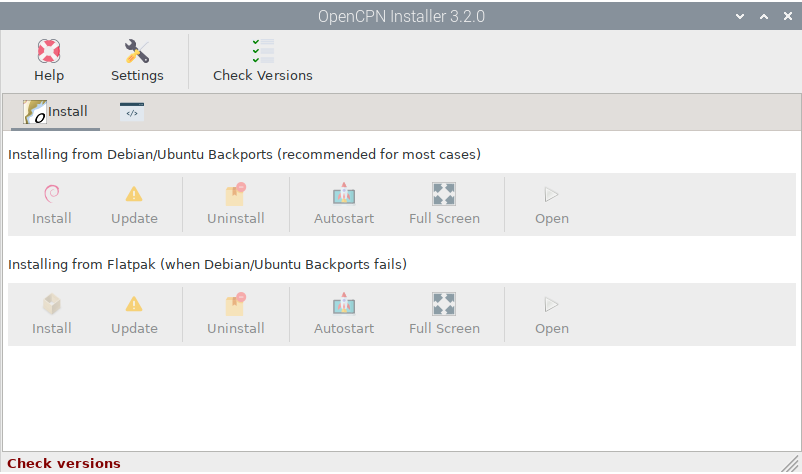
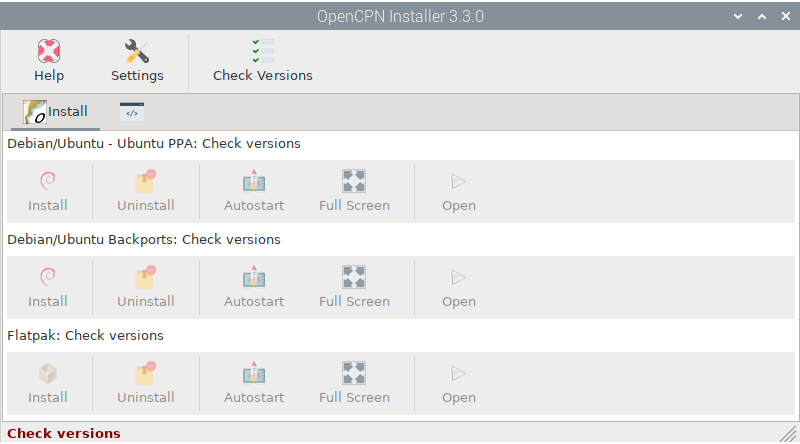
Update OpenCPN chapter to add PPA sources

diff --git a/opencpn/opencpn_app.rst b/opencpn/opencpn_app.rst
@@ -35,34 +35,49 @@ When you open the app, all buttons are disabled. You have to check the current v
 
 .. image:: img/opencpn1.png
 
-A list with the different versions from all the sources will be displayed so that you can choose the right one. The buttons on the |OPopencpnPlugins| ``Install`` tab will now be enabled.
+A list will be displayed with the different versions of all the available sources and some recommendations:
+
+.. image:: img/opencpn1b.png
+
+You can install OpenCPN in two different ways, from the **Debian/Ubuntu** repositories or from **Flatpak**. You can use both ways and install two instances of OpenCPN that can be used simultaneously on the same machine without problems. 
+
+In Flatpak there is only one source and therefore only one version but in Debian/Ubuntu there are several sources and several versions available:
+
+- **Debian/Ubuntu**: This is the official Debian/Ubuntu repository. There is an OpenCPN package, but it will probably always be old.
+
+- **Ubuntu PPA**: This is an special repository to be added in Ubuntu but it will also work in Debian and Raspberry OS. Packages in this repository are always up to date and are fully compatible with packages in the official Debian/Ubuntu repositories above.
+
+- **Debian/Ubuntu Backports**: The official backports repositories are used to install packages that exist in higher versions of the system that have not yet been updated in the current system version.
 
 Which source to choose?
 ***********************
 
-As a general rule, you should choose *Debian/Ubuntu Backports*, but if the plugin you need is not available for your system or if you are running a non-LTS system, choose the Flatpak installation. Both *Debian/Ubuntu Backports* and *Flatpak* installations can coexists without problem.
-
-.. important::
-	At the time of writing this manual, OpenCPN Flatpak is the best option for touchscreens. 
+After checking versions the buttons on the |OPopencpnPlugins| ``Install`` tab will now be enabled:
 
 .. image:: img/opencpn4.png
 
-.. image:: img/opencpn2.png
+- |OPopencpnBack| **Debian/Ubuntu - Ubuntu PPA**: This option will install the highest version found in the official *Debian/Ubuntu* repository and the *Ubuntu PPA* repository.
 
-.. image:: img/opencpn5.png
+- |OPopencpnBack| **Debian/Ubuntu Backports**: This option will install the latest version in the official *Debian/Ubuntu Backports* repository.
 
-|OPopencpnBack| Debian/Ubuntu Backports
-=======================================
-
-This option contains two sources that are compatible with each other, the official Debian/Ubuntu Stable repository and the official Debian/Ubuntu Backports repository. If you choose this option the Debian/Ubuntu Backports version will be installed because the Debian/Ubuntu Stable version will rarely be higher.
-
-|OPopencpnFlatpak| Flatpak
-==========================
-
-This option runs OpenCPN in a kind of container independent of the host system. For this reason the time and size of the download will be larger. This option is perfect if your system is non-LTS (Long Term Support) or at that moment the plugin you need does not exist in the Debian/Ubuntu Backports version.
+- |OPopencpnFlatpak| **Flatpak**: This option will install the latest version in the *Flatpak* repository. This option runs OpenCPN in a kind of container independent of the host system and for this reason the time and size of the download will be larger. 
 
 .. important::
-	At the time of writing this manual, there are some known issues with headless environments that could prevent OpenCPN Flatpak from running. 
+	As a general rule, you should always choose the highest version, regardless of the source, unless you fall within one of the recommended uses or there is an OpenCPN plugin you need to use that is not included in any of the sources.
+
+.. note::
+	At the time of writing this manual, OpenCPN Flatpak is the best option for touch screens because it allows right-clicking and two-finger zooming. However OpenCPN Flatpak may not work well in headless environments.
+
+.. note::
+	The Debian/Ubuntu repositories only release OpenCPN packages for LTS (Long-Term Support) versions of your operating system. If you use a development version of Debian or Ubuntu you should use OpenCPN Flatpak.
+
+.. note::
+	Sometimes when we install a new version, some plugins may not be compatible and cause OpenCPN to crash or prevent it from opening. If this happens we can try to remove the old plugins by deleting the *~/.local/lib/opencpn* folder and reinstalling the plugins when OpenCPN opens normally again.
+
+
+If you install OpenCPN twice, from Debian/Ubuntu and Flatpak, the system will differentiate between them by adding the FP suffix to the version installed from Flatpak:
+
+.. image:: img/opencpn5.png
 
 OpenCPN Installer actions
 *************************
@@ -70,8 +85,6 @@ OpenCPN Installer actions
 Once OpenCPN is installed, there are a few actions you can take in this app. 
 
 - You can |OPopencpnUninstall| ``Uninstall`` OpenCPN at any time.
-
-- If there is an |OPopencpnUpdate| ``Update``, this button will be enabled.
 
 - By checking |OPopencpnAutostart| ``Autostart``, OpenCPN will run automatically at startup and by checking |OPopencpnFullscreen| ``Full Screen``, it will use the entire screen.
 

diff --git a/index.rst b/index.rst
@@ -40,7 +40,7 @@ Welcome to OpenPlotter's documentation!
    
 .. toctree::
    :maxdepth: 1
-   :caption: OpenCPN Installer - 3.2.20-stable
+   :caption: OpenCPN Installer - 3.3.0-stable
    :name: sec-opencpn
 
    opencpn/opencpn_app
